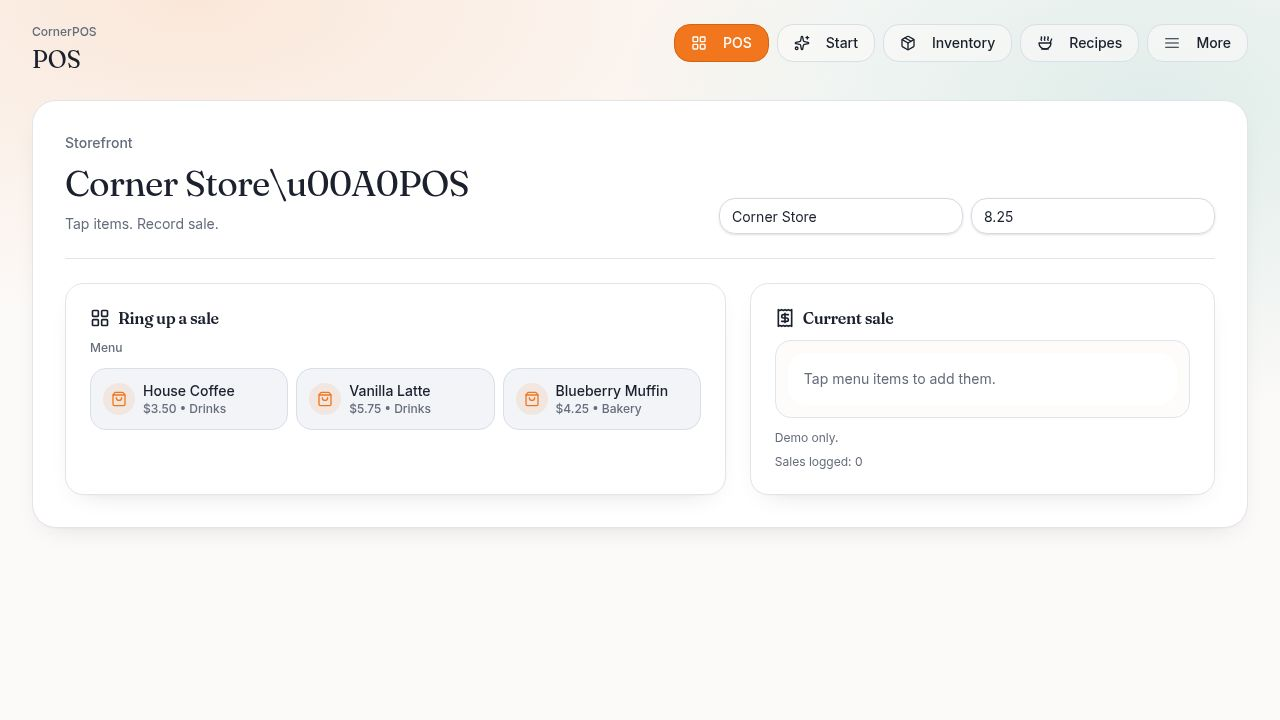
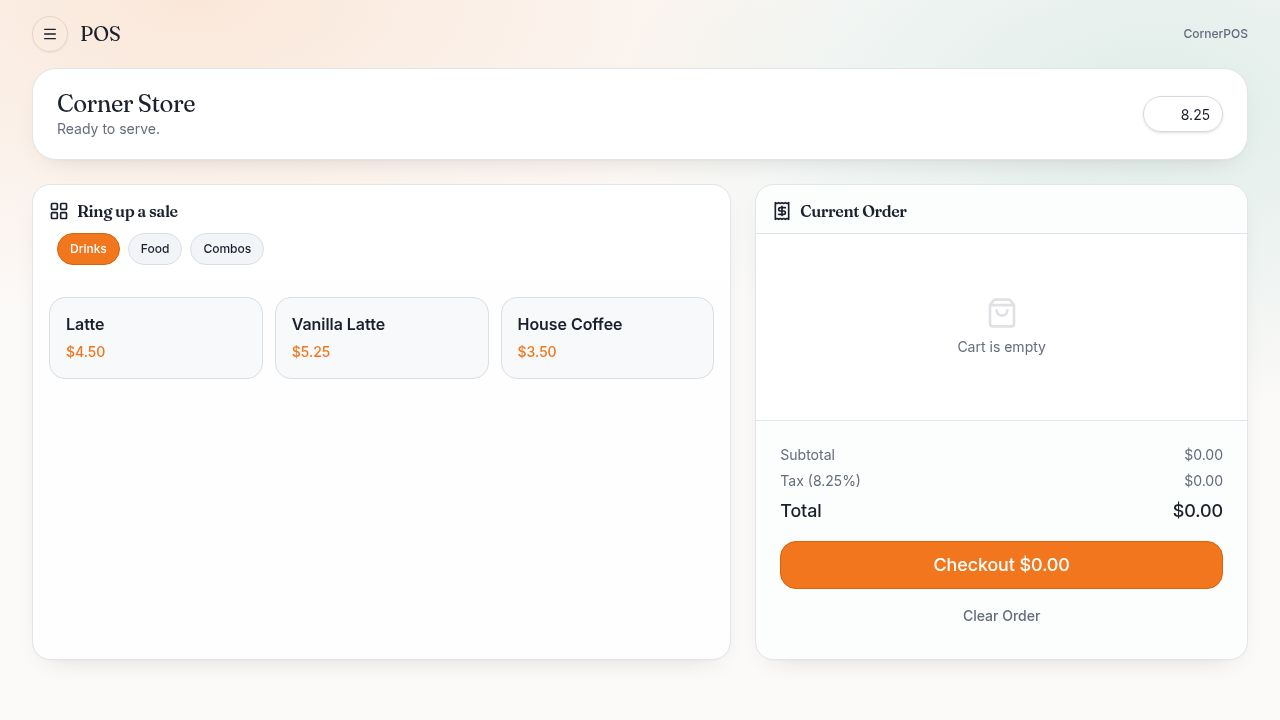
Make header and navbar more compact and streamline the checkout process
Refactors `AppShell` to use a collapsed `Sheet` for navigation and reduces header size. Updates `PosPage` to replace "Record Sale" with a "Confirm Order" button that triggers a payment confirmation dialog before sale recording.

Replit-Commit-Author: Agent
Replit-Commit-Session-Id: d11ce735-4a95-4b99-930b-1af3a9b19157
Replit-Commit-Checkpoint-Type: full_checkpoint
Replit-Commit-Event-Id: 1d2d7e02-eab3-4620-8e26-21f8af44745b
Replit-Commit-Screenshot-Url: https://storage.googleapis.com/screenshot-production-us-central1/4710a650-8e96-41ee-a11f-932c0bb5f92b/d11ce735-4a95-4b99-930b-1af3a9b19157/ZwgfSVQ
Replit-Helium-Checkpoint-Created: true

diff --git a/client/src/pages/pos.tsx b/client/src/pages/pos.tsx
@@ -139,6 +139,10 @@ export default function PosPage() {
     toast({ title: "Item updated", description: "Customizations saved." });
   }
 
+  // --- Payment Dialog State ---
+  const [isPaymentOpen, setIsPaymentOpen] = useState(false);
+  const [paymentType, setPaymentType] = useState<"Cash" | "Card">("Card");
+
   // Calculations
   const subtotalCents = cart.reduce((acc, item) => {
     const m = menu.find((x) => x.id === item.menuItemId);
@@ -153,17 +157,18 @@ export default function PosPage() {
 
   const totalCents = subtotalCents + taxCents;
 
-  function recordSale() {
-    if (cart.length === 0) return;
+  function handleConfirmOrder() {
+    if (cart.length === 0) {
+      toast({ title: "Cart is empty", description: "Add items first." });
+      return;
+    }
+    setIsPaymentOpen(true);
+  }
 
-    const paymentMethod = "Cash"; // Simplified for now
-
+  function handleRecordSale() {
     // 1. Deduct Inventory based on customizations
     cart.forEach(line => {
        line.customizations.forEach(cust => {
-          // Deduct: cust.qty * line.qty from cust.inventoryItemId
-          // In a real app, we'd batch this or use a transaction
-          // Here we just fire individual updates
           updateInventoryCount(cust.inventoryItemId, -(cust.qty * line.qty));
        });
     });
@@ -175,56 +180,46 @@ export default function PosPage() {
       subtotalCents,
       taxCents,
       totalCents,
-      paymentMethod,
+      paymentMethod: paymentType,
     };
 
     setSales((prev) => [sale, ...prev]);
 
-    toast({ title: "Sale recorded", description: `${formatMoney(totalCents)} • Inventory deducted based on customizations.` });
+    toast({ title: "Sale recorded", description: `${formatMoney(totalCents)} • ${paymentType}` });
     clearCart();
+    setIsPaymentOpen(false);
   }
 
   return (
     <motion.div initial={{ opacity: 0, y: 10 }} animate={{ opacity: 1, y: 0 }} transition={{ duration: 0.35 }}>
       <AppShell title="POS">
-        <header className="relative overflow-hidden rounded-3xl border bg-card shadow-soft grain">
-          <div className="p-6 sm:p-8">
-            <div className="flex flex-col gap-4 md:flex-row md:items-end md:justify-between">
+        <header className="relative overflow-hidden rounded-3xl border bg-card shadow-soft grain mb-6">
+          <div className="px-6 py-5 flex items-center justify-between gap-4">
               <div className="min-w-0">
-                <p className="text-sm font-medium text-muted-foreground" data-testid="text-tagline">
-                  Storefront
-                </p>
-                <h2 className="mt-2 font-serif text-3xl leading-tight tracking-[-0.02em] sm:text-4xl" data-testid="text-title">
-                  {businessName}&nbsp;POS
+                <h2 className="font-serif text-2xl leading-tight tracking-[-0.02em]" data-testid="text-title">
+                  {businessName}
                 </h2>
-                <p className="mt-2 max-w-2xl text-sm text-muted-foreground" data-testid="text-subtitle">
-                  Tap items. Customize recipes. Record sale.
+                <p className="text-sm text-muted-foreground truncate">
+                  Ready to serve.
                 </p>
               </div>
 
-              <div className="grid w-full gap-2 sm:w-auto sm:grid-cols-2">
-                <Input
-                  value={businessName}
-                  onChange={(e) => setBusinessName(e.target.value)}
-                  className="rounded-2xl"
-                  data-testid="input-business-name"
-                />
+              <div className="flex gap-2">
                 <Input
                   value={String(taxRatePct)}
                   onChange={(e) => setTaxRatePct(Number(e.target.value))}
-                  className="rounded-2xl"
+                  className="w-20 rounded-xl h-9 text-right"
                   inputMode="decimal"
-                  data-testid="input-tax-rate"
+                  placeholder="Tax %"
                 />
               </div>
-            </div>
+          </div>
+        </header>
 
-            <Separator className="my-6" />
-
-            <div className="grid gap-6 lg:grid-cols-12">
+            <div className="grid gap-6 lg:grid-cols-12 h-[calc(100vh-220px)] pb-6">
                 {/* Menu Grid */}
-                <Card className="border bg-card shadow-soft lg:col-span-7 flex flex-col h-full overflow-hidden">
-                  <CardHeader className="pb-3 flex-shrink-0">
+                <Card className="border bg-card shadow-soft lg:col-span-7 flex flex-col overflow-hidden h-full">
+                  <CardHeader className="pb-3 flex-shrink-0 pt-4 px-4">
                     <CardTitle className="flex items-center gap-2 font-serif" data-testid="text-pos-title">
                       <LayoutGrid className="h-5 w-5" />
                       Ring up a sale
@@ -249,8 +244,8 @@ export default function PosPage() {
                     </div>
                   </div>
 
-                  <CardContent className="flex-1 overflow-y-auto min-h-[400px]">
-                    <div className="grid grid-cols-2 gap-3 sm:grid-cols-3 md:grid-cols-3">
+                  <CardContent className="flex-1 overflow-y-auto p-4 bg-muted/10">
+                    <div className="grid grid-cols-2 gap-3 sm:grid-cols-3 md:grid-cols-3 pb-20">
                       {activeMenuItems.length > 0 ? (
                         activeMenuItems.map((m) => (
                           <Button
@@ -279,15 +274,15 @@ export default function PosPage() {
                 </Card>
 
                 {/* Cart / Receipt */}
-                <Card className="border bg-card shadow-soft lg:col-span-5 flex flex-col h-full">
-                  <CardHeader className="pb-3 border-b bg-muted/20">
+                <Card className="border bg-card shadow-soft lg:col-span-5 flex flex-col h-full overflow-hidden">
+                  <CardHeader className="pb-3 border-b bg-muted/20 pt-4 px-4">
                     <CardTitle className="flex items-center gap-2 font-serif" data-testid="text-cart-title">
                       <Receipt className="h-5 w-5" />
                       Current Order
                     </CardTitle>
                   </CardHeader>
                   <CardContent className="flex-1 flex flex-col p-0">
-                    <div className="flex-1 overflow-auto p-4 min-h-[300px]">
+                    <div className="flex-1 overflow-auto p-4">
                       {cart.length > 0 ? (
                         <ul className="space-y-3">
                           {cart.map((item) => {
@@ -355,34 +350,23 @@ export default function PosPage() {
                         </div>
                       </div>
 
-                      <div className="mt-4 grid grid-cols-2 gap-2">
-                        <Button className="w-full rounded-2xl" variant="outline" data-testid="button-payment-card">
-                          Card
-                        </Button>
-                        <Button className="w-full rounded-2xl" variant="outline" data-testid="button-payment-cash">
-                          Cash
-                        </Button>
-                      </div>
-
-                      <div className="mt-2 grid gap-2 sm:grid-cols-2">
-                        <Button className="rounded-2xl" onClick={recordSale} data-testid="button-record-sale">
-                          Record sale
+                      <div className="mt-4">
+                        <Button className="w-full rounded-2xl h-12 text-lg" onClick={handleConfirmOrder} data-testid="button-confirm-order">
+                          Checkout {formatMoney(totalCents)}
                         </Button>
                         <Button
-                          variant="secondary"
-                          className="rounded-2xl"
+                          variant="ghost"
+                          className="w-full mt-2 rounded-xl text-muted-foreground hover:text-destructive"
                           onClick={clearCart}
                           data-testid="button-clear-sale"
                         >
-                          Clear
+                          Clear Order
                         </Button>
                       </div>
                     </div>
                   </CardContent>
                 </Card>
             </div>
-          </div>
-        </header>
 
         {/* Customization Dialog */}
         <Dialog open={!!editingItemInstanceId} onOpenChange={(open) => !open && setEditingItemInstanceId(null)}>
@@ -447,6 +431,61 @@ export default function PosPage() {
                <Button onClick={saveCustomizations}>Save Changes</Button>
              </DialogFooter>
            </DialogContent>
+        </Dialog>
+
+        {/* Payment Popup */}
+        <Dialog open={isPaymentOpen} onOpenChange={setIsPaymentOpen}>
+          <DialogContent className="sm:max-w-md">
+            <DialogHeader>
+              <DialogTitle>Confirm Payment</DialogTitle>
+            </DialogHeader>
+            
+            <div className="py-6 flex flex-col gap-6">
+              <div className="text-center">
+                <p className="text-sm text-muted-foreground uppercase tracking-wider">Total Due</p>
+                <p className="text-4xl font-serif mt-1">{formatMoney(totalCents)}</p>
+              </div>
+
+              <div className="grid grid-cols-2 gap-3">
+                <Button 
+                  variant={paymentType === "Card" ? "default" : "outline"} 
+                  className="h-16 rounded-2xl flex flex-col gap-1"
+                  onClick={() => setPaymentType("Card")}
+                >
+                  <span className="font-semibold text-lg">Card</span>
+                </Button>
+                <Button 
+                  variant={paymentType === "Cash" ? "default" : "outline"} 
+                  className="h-16 rounded-2xl flex flex-col gap-1"
+                  onClick={() => setPaymentType("Cash")}
+                >
+                  <span className="font-semibold text-lg">Cash</span>
+                </Button>
+              </div>
+
+              <div className="rounded-xl bg-muted/30 p-4 border border-border/50 text-sm">
+                <div className="flex justify-between mb-1">
+                  <span className="text-muted-foreground">Subtotal</span>
+                  <span>{formatMoney(subtotalCents)}</span>
+                </div>
+                <div className="flex justify-between">
+                  <span className="text-muted-foreground">Tax ({taxRatePct}%)</span>
+                  <span>{formatMoney(taxCents)}</span>
+                </div>
+              </div>
+            </div>
+
+            <DialogFooter>
+              <div className="w-full grid gap-2">
+                <Button size="lg" className="w-full rounded-2xl h-12 text-lg" onClick={handleRecordSale}>
+                  Complete Payment
+                </Button>
+                <Button variant="ghost" onClick={() => setIsPaymentOpen(false)}>
+                  Back
+                </Button>
+              </div>
+            </DialogFooter>
+          </DialogContent>
         </Dialog>
 
       </AppShell>

diff --git a/client/src/components/app-shell.tsx b/client/src/components/app-shell.tsx
@@ -3,21 +3,15 @@ import {
   BarChart3,
   ClipboardList,
   LayoutGrid,
+  Menu as MenuIcon,
   Package,
   Sparkles,
   Soup,
+  ArrowRight
 } from "lucide-react";
-import { HamburgerMenuIcon } from "@radix-ui/react-icons";
 import { cn } from "@/lib/utils";
 import { Button } from "@/components/ui/button";
-import {
-  DropdownMenu,
-  DropdownMenuContent,
-  DropdownMenuItem,
-  DropdownMenuLabel,
-  DropdownMenuSeparator,
-  DropdownMenuTrigger,
-} from "@/components/ui/dropdown-menu";
+import { Sheet, SheetContent, SheetHeader, SheetTitle, SheetTrigger } from "@/components/ui/sheet";
 
 const nav = [
   { href: "/", label: "POS", icon: LayoutGrid, testid: "link-nav-pos" },
@@ -39,87 +33,53 @@ export default function AppShell({
 
   return (
     <div className="min-h-screen app-shell">
-      <div className="mx-auto max-w-7xl px-4 py-6 sm:px-6 lg:px-8">
-        <div className="flex items-start justify-between gap-3">
-          <div className="min-w-0">
-            <p className="text-xs font-medium text-muted-foreground" data-testid="text-app-name">
-              CornerPOS
-            </p>
-            <h1 className="mt-1 truncate font-serif text-2xl" data-testid="text-page-title">
-              {title}
-            </h1>
-          </div>
-
-          <div className="min-w-0" data-testid="nav-top">
-            {/* Small screens: scrollable pill row */}
-            <div className="sm:hidden" data-testid="nav-mobile">
-              <div className="nav-scroll -mr-4 flex max-w-[78vw] items-center gap-2 overflow-x-auto pr-4" data-testid="nav-scroll">
-                {nav.map((n) => {
-                  const active = location === n.href;
-                  const Icon = n.icon;
-                  return (
-                    <Link key={n.href} href={n.href} data-testid={n.testid}>
-                      <Button
-                        variant={active ? "default" : "secondary"}
-                        className={cn("shrink-0 rounded-2xl", !active && "bg-background/60")}
-                        data-testid={`${n.testid}-button`}
-                      >
-                        <Icon className="mr-2 h-4 w-4" />
-                        {n.label}
-                      </Button>
-                    </Link>
-                  );
-                })}
-              </div>
-            </div>
-
-            {/* Larger screens: visible buttons + optional overflow */}
-            <div className="hidden items-center justify-end gap-2 sm:flex" data-testid="nav-desktop">
-              {nav.slice(0, 4).map((n) => {
-                const active = location === n.href;
-                const Icon = n.icon;
-                return (
-                  <Link key={n.href} href={n.href} data-testid={n.testid}>
-                    <Button
-                      variant={active ? "default" : "secondary"}
-                      className={cn("rounded-2xl", !active && "bg-background/60")}
-                      data-testid={`${n.testid}-button`}
-                    >
-                      <Icon className="mr-2 h-4 w-4" />
-                      {n.label}
-                    </Button>
-                  </Link>
-                );
-              })}
-
-              <DropdownMenu>
-                <DropdownMenuTrigger asChild>
-                  <Button variant="secondary" className="rounded-2xl bg-background/60" data-testid="button-nav-more">
-                    <HamburgerMenuIcon />
-                    <span className="ml-2">More</span>
-                  </Button>
-                </DropdownMenuTrigger>
-                <DropdownMenuContent align="end" className="w-56">
-                  <DropdownMenuLabel>Navigate</DropdownMenuLabel>
-                  <DropdownMenuSeparator />
-                  {nav.slice(4).map((n) => {
+      <div className="mx-auto max-w-7xl px-4 py-4 sm:px-6 lg:px-8">
+        <div className="flex items-center justify-between gap-3 mb-4">
+          <div className="flex items-center gap-3">
+            <Sheet>
+              <SheetTrigger asChild>
+                <Button variant="outline" size="icon" className="shrink-0 rounded-xl">
+                  <MenuIcon className="h-5 w-5" />
+                </Button>
+              </SheetTrigger>
+              <SheetContent side="left" className="w-[280px] sm:w-[320px]">
+                <SheetHeader>
+                  <SheetTitle className="font-serif text-xl text-left">CornerPOS</SheetTitle>
+                </SheetHeader>
+                <div className="mt-6 flex flex-col gap-2">
+                  {nav.map((n) => {
+                    const active = location === n.href;
                     const Icon = n.icon;
                     return (
-                      <Link key={n.href} href={n.href} data-testid={`${n.testid}-more`}>
-                        <DropdownMenuItem className="gap-2" data-testid={`${n.testid}-item`}>
-                          <Icon className="h-4 w-4" />
+                      <Link key={n.href} href={n.href}>
+                        <Button
+                          variant={active ? "default" : "ghost"}
+                          className={cn("w-full justify-start rounded-xl text-base h-12", active ? "" : "text-muted-foreground")}
+                        >
+                          <Icon className="mr-3 h-5 w-5" />
                           {n.label}
-                        </DropdownMenuItem>
+                          {active && <ArrowRight className="ml-auto h-4 w-4 opacity-50" />}
+                        </Button>
                       </Link>
                     );
                   })}
-                </DropdownMenuContent>
-              </DropdownMenu>
+                </div>
+              </SheetContent>
+            </Sheet>
+
+            <div>
+              <h1 className="font-serif text-xl leading-none" data-testid="text-page-title">
+                {title}
+              </h1>
             </div>
+          </div>
+          
+          <div className="text-xs font-medium text-muted-foreground hidden sm:block">
+            CornerPOS
           </div>
         </div>
 
-        <div className="mt-6">{children}</div>
+        <div>{children}</div>
       </div>
     </div>
   );
